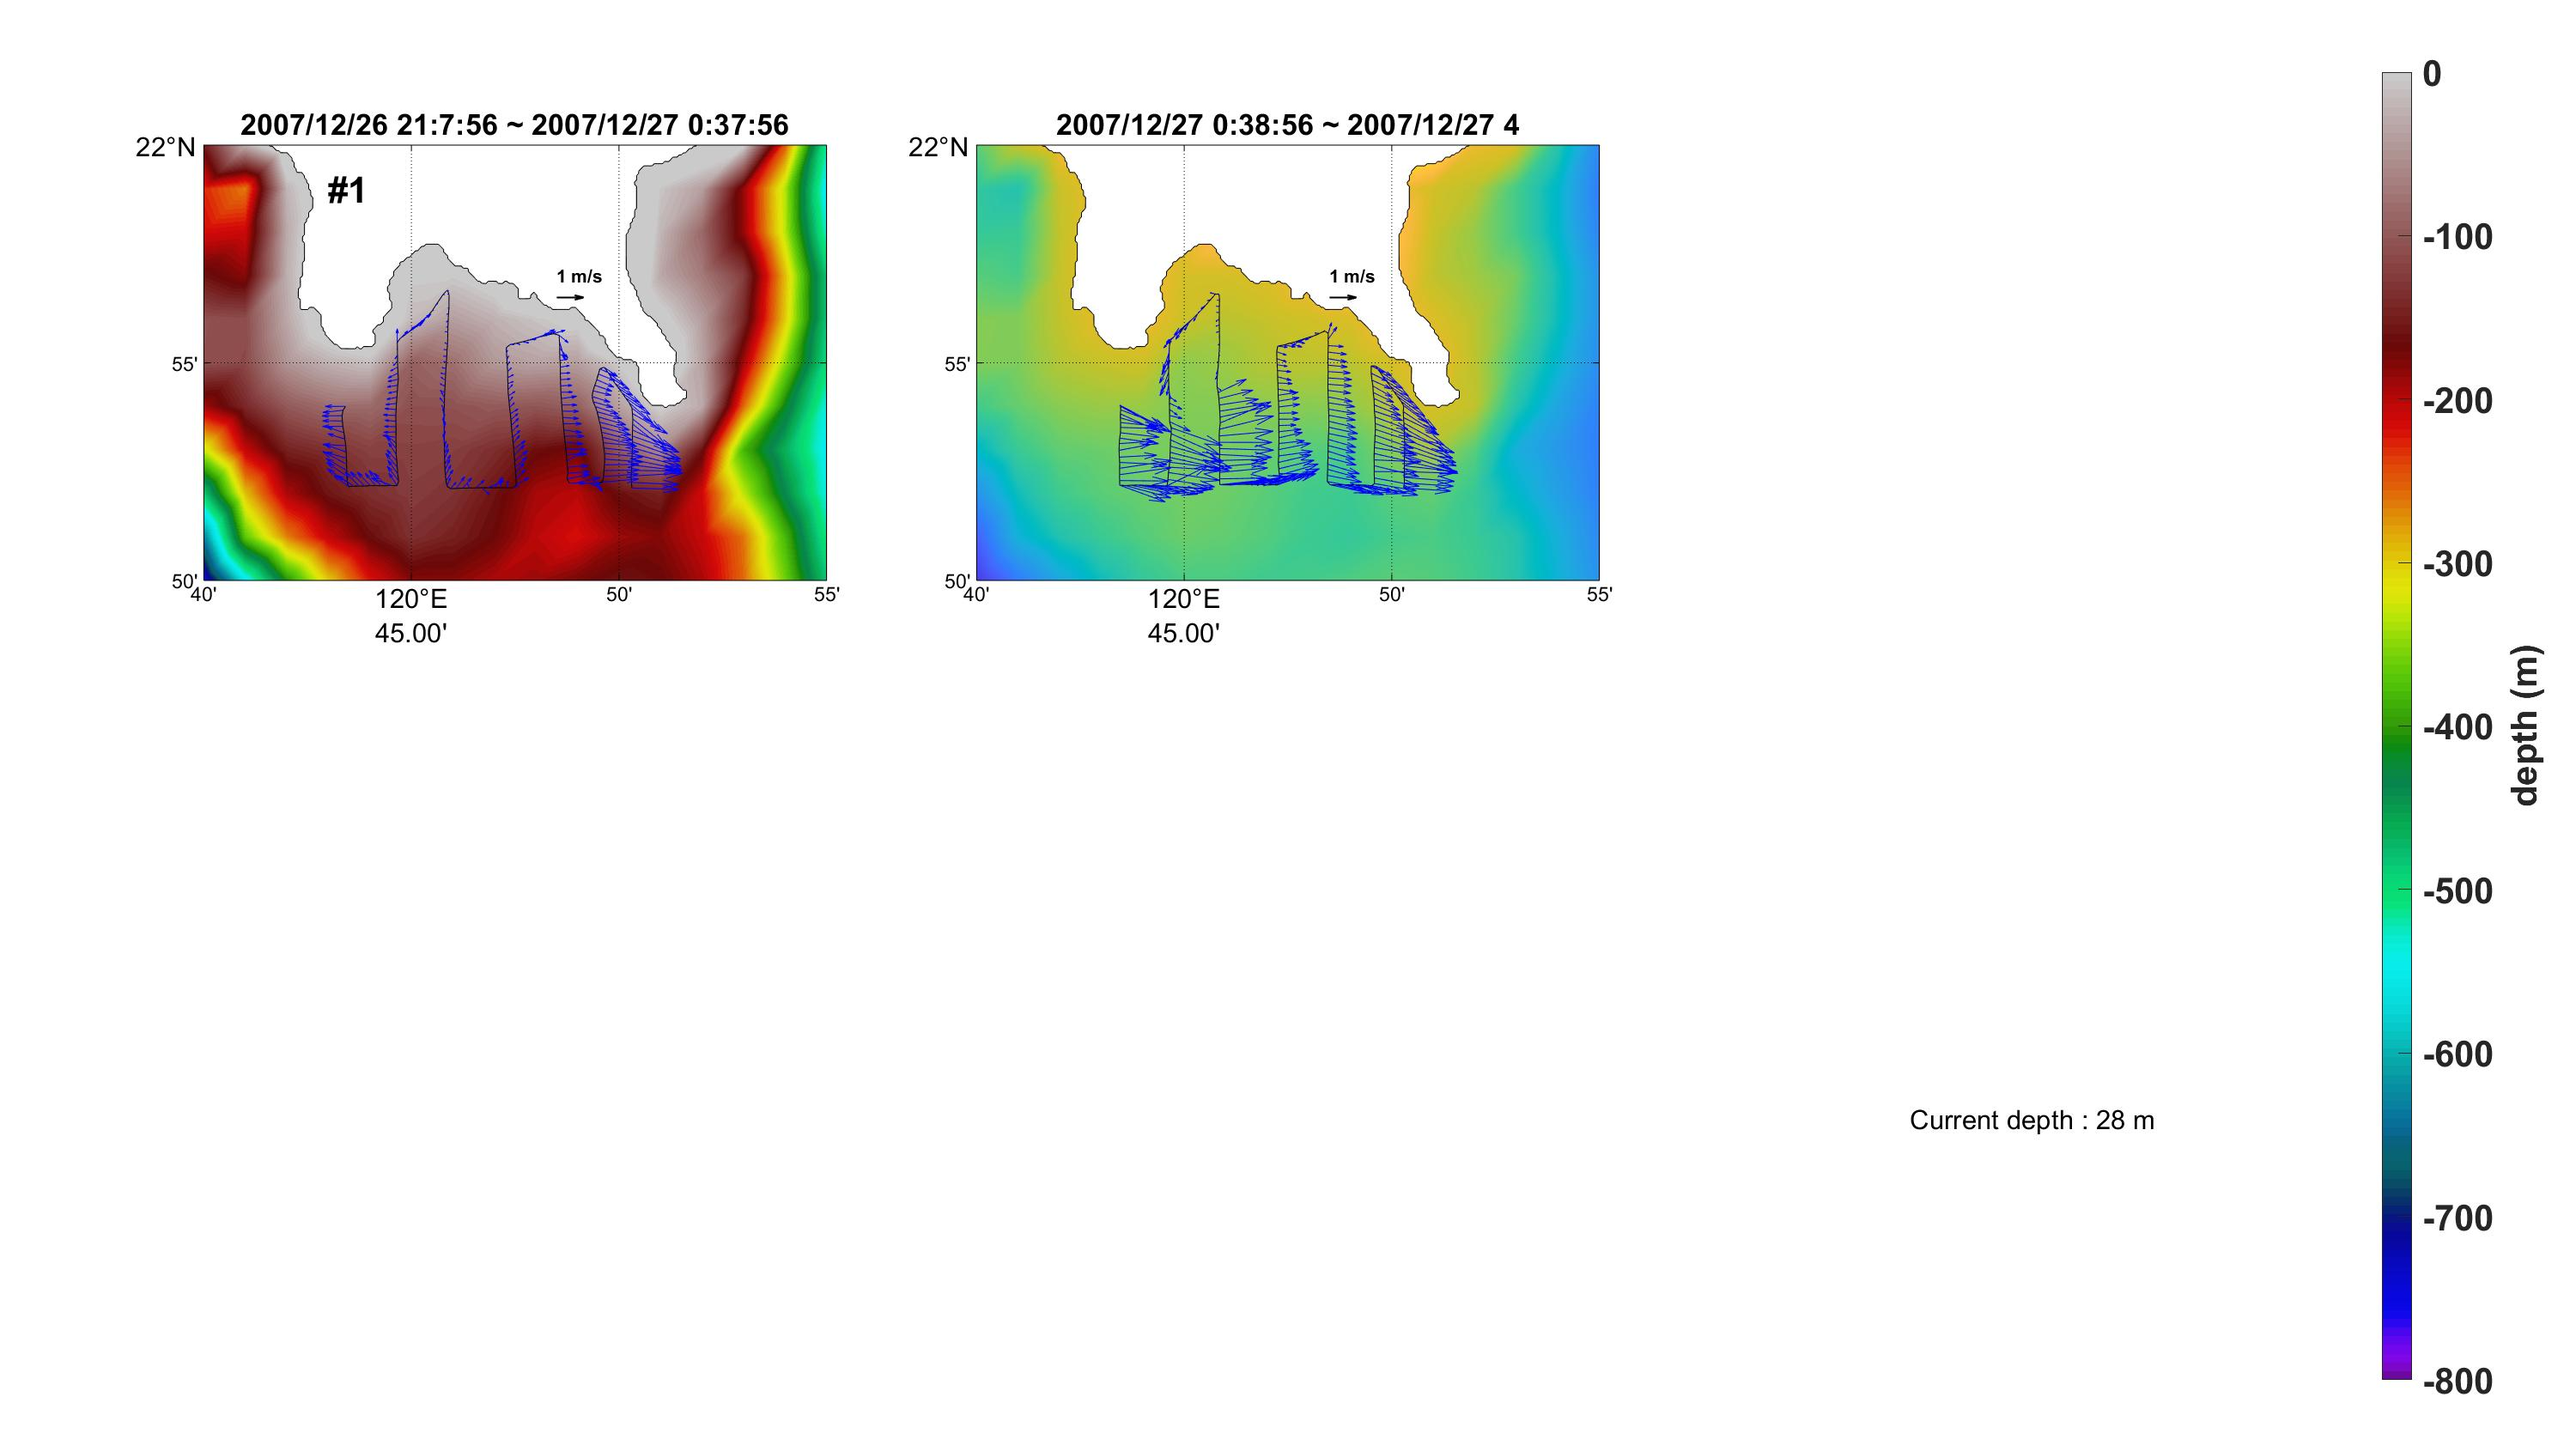
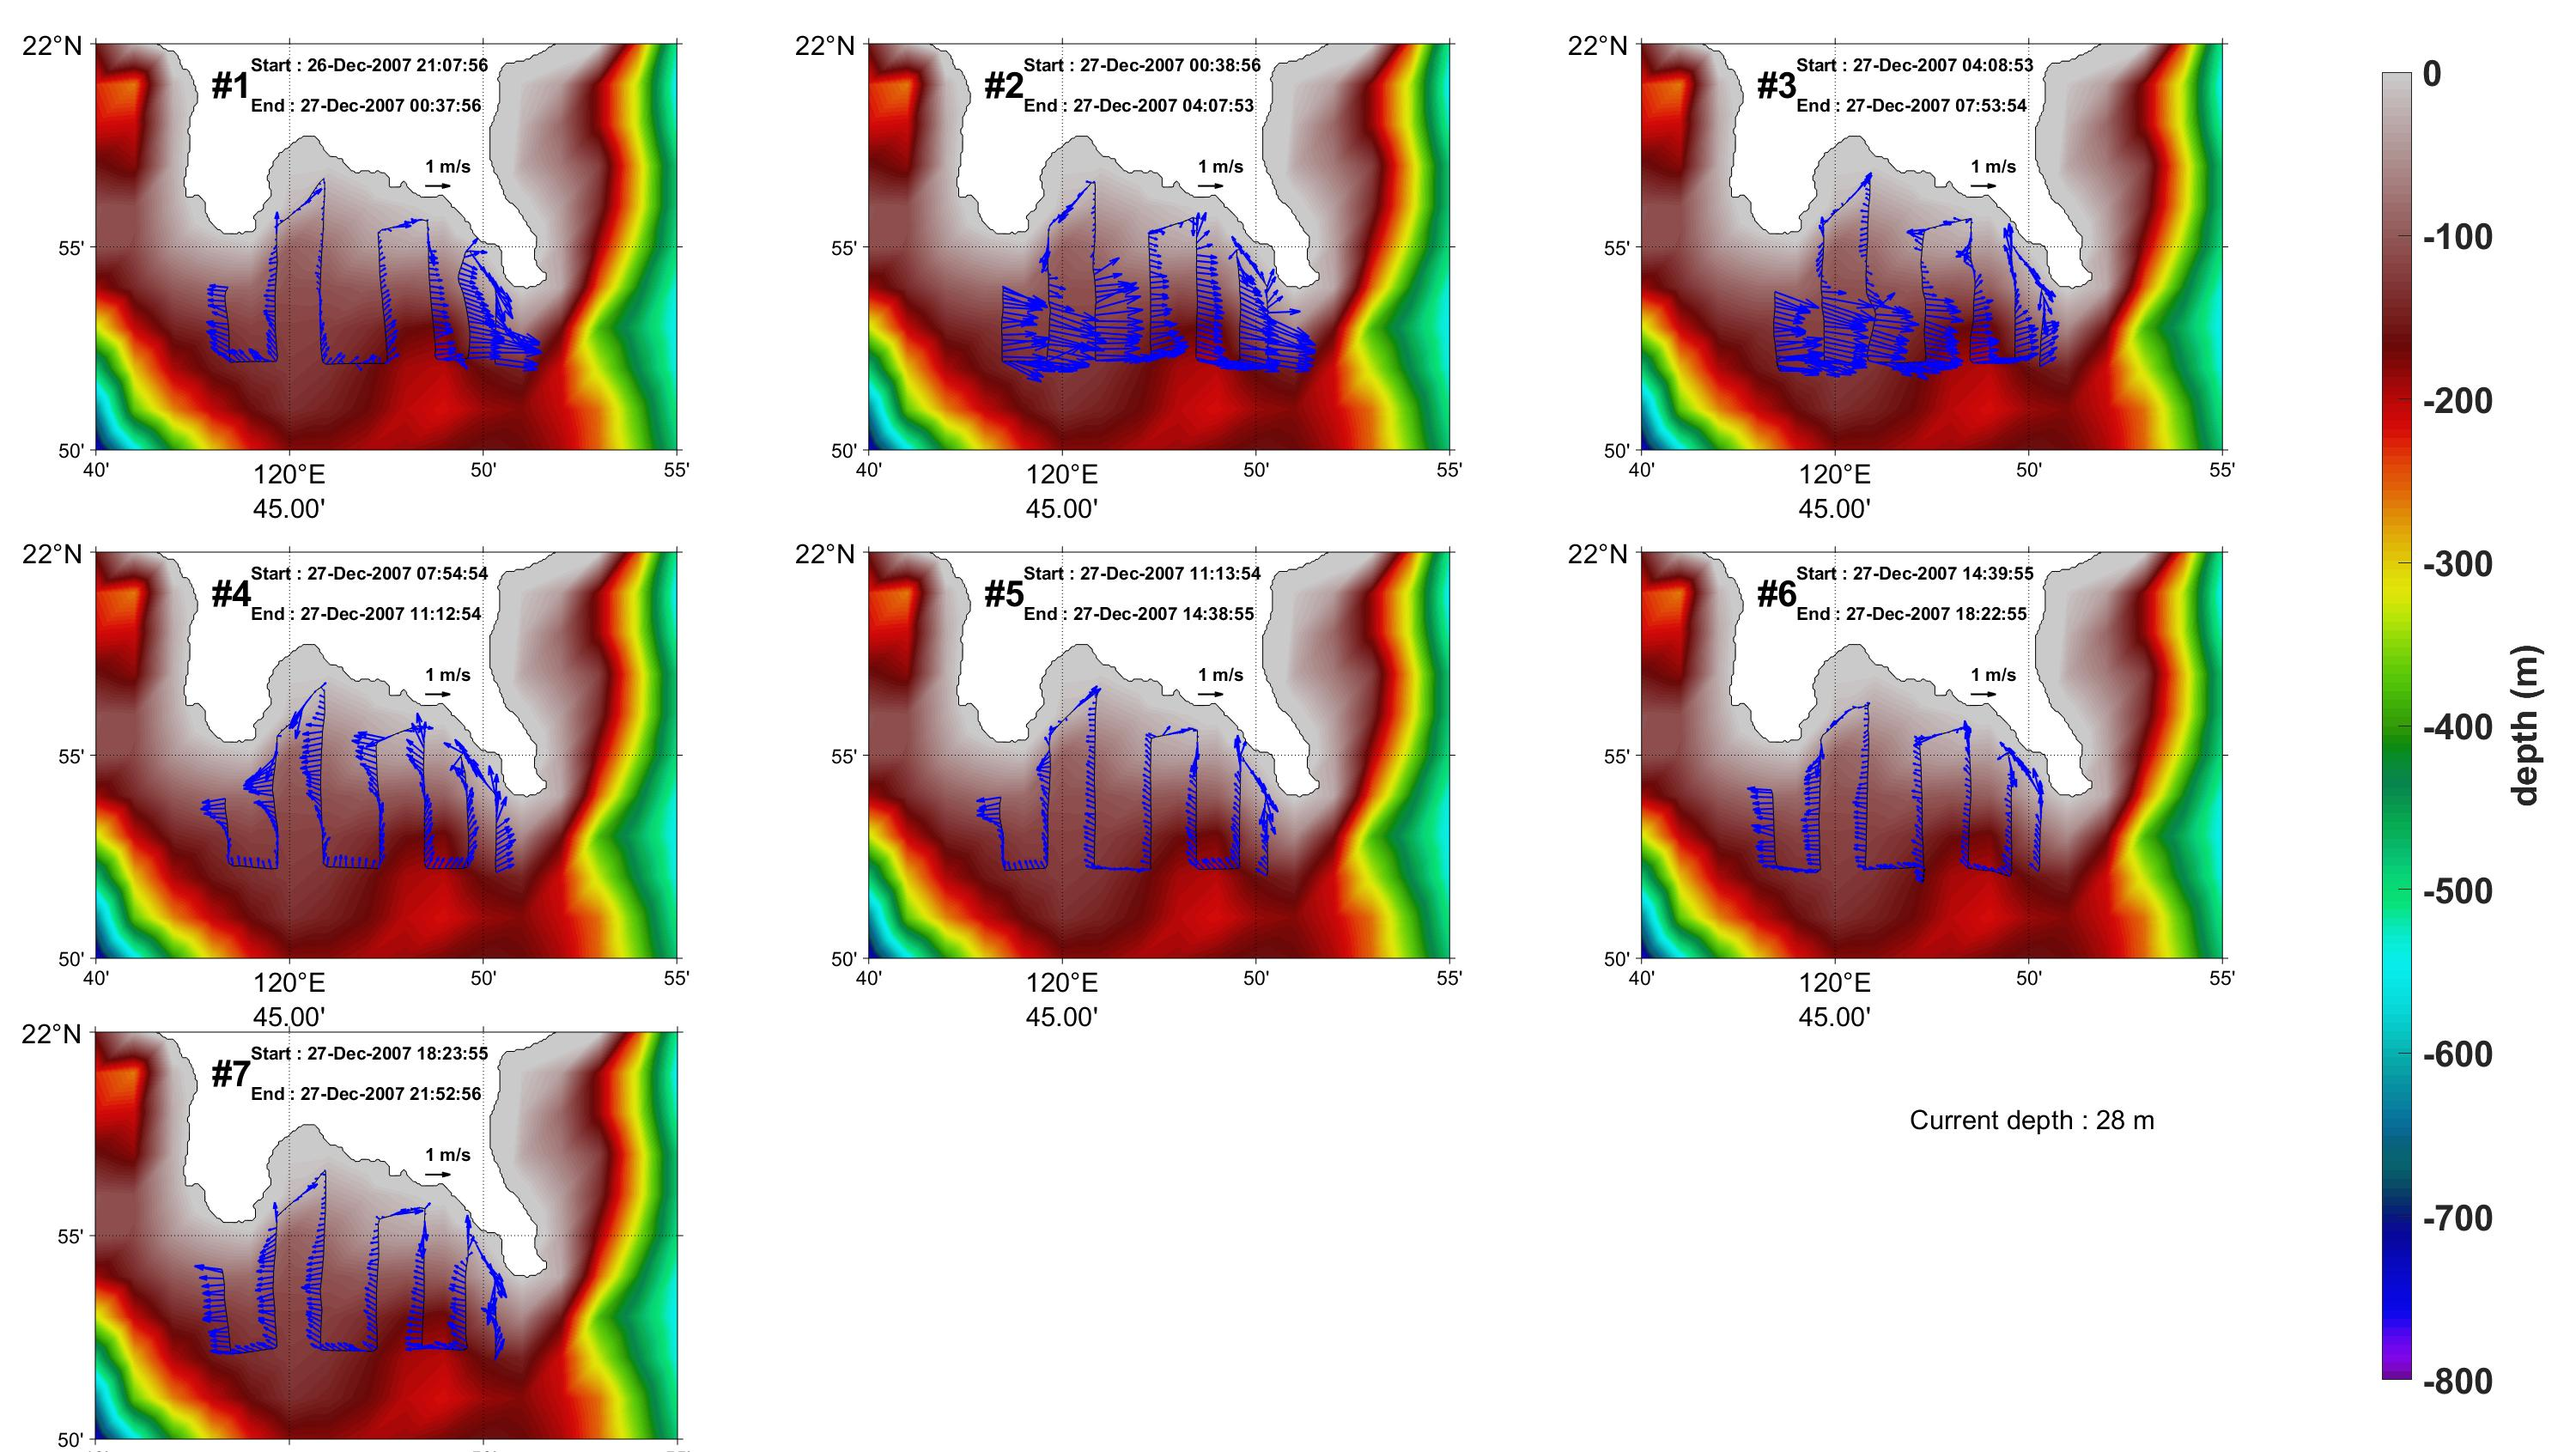
add function

diff --git a/ship_track_current.m b/ship_track_current.m
@@ -5,31 +5,32 @@ load('./C1267/ADCP_Nan_Bay.mat')
 LAT_lim = [21+50/60:5/60:22];
 LON_lim = [120+40/60:5/60:120+55/60];
 %%
-layer = 2;
-current_depth = 12 + 8*layer; % meter;
+layer = 3;
+current_depth = 12 + 8*(layer-1); % meter;
 u = SerEmmpersec(:,layer);
 v = SerNmmpersec(:,layer);
 %%
-filter_ind_1 = find(u<-30000 | (SerHour<=23 & SerDay==25) | ...
+filter_ind_head = find(u<-30000 | (SerHour<=23 & SerDay==25) | ...
     (SerHour<=20 & SerDay==26) | ...
     (SerMin<= 6 & SerHour<=21 & SerDay==26));
-filter_ind_2 = find(v<-30000 | (SerMin>=53 & SerHour>=21 & SerDay==27) | ...
+filter_ind_tail = find(v<-30000 | (SerMin>=53 & SerHour>=21 & SerDay==27) | ...
     (SerHour>=22 & SerDay==27));
-u([filter_ind_1;filter_ind_2])=[];
-v([filter_ind_1;filter_ind_2])=[];
-AnLLatDeg([filter_ind_1;filter_ind_2]) = [];
-AnLLonDeg([filter_ind_1;filter_ind_2]) = [];
+u([filter_ind_head;filter_ind_tail])=[];
+v([filter_ind_head;filter_ind_tail])=[];
+AnLLatDeg([filter_ind_head;filter_ind_tail]) = [];
+AnLLonDeg([filter_ind_head;filter_ind_tail]) = [];
 %%
-SerYear([filter_ind_1;filter_ind_2]) = [];
-SerMon([filter_ind_1;filter_ind_2]) = [];
-SerDay([filter_ind_1;filter_ind_2]) = [];
-SerHour([filter_ind_1;filter_ind_2]) = [];
-SerMin([filter_ind_1;filter_ind_2]) = [];
-SerSec([filter_ind_1;filter_ind_2]) = [];
+SerYear([filter_ind_head;filter_ind_tail]) = [];
+SerMon([filter_ind_head;filter_ind_tail]) = [];
+SerDay([filter_ind_head;filter_ind_tail]) = [];
+SerHour([filter_ind_head;filter_ind_tail]) = [];
+SerMin([filter_ind_head;filter_ind_tail]) = [];
+SerSec([filter_ind_head;filter_ind_tail]) = [];
+time_series = datetime(SerYear+2000,SerMon,SerDay,SerHour,SerMin,SerSec);
 %%
 fig = figure;
 fig.PaperUnits = 'centimeters';
-fig.PaperSize = [29.7 21]; % A4 papersize (horizontal,21-by-29.7 cm,[width height])
+fig.PaperSize = [21 29.7]; % A4 papersize (horizontal,21-by-29.7 cm,[width height])
 fig.PaperType = '<custom>';
 fig.WindowState = 'maximized';
 fig
@@ -66,18 +67,13 @@ text(0.8,0.2,['Current depth : ' num2str(current_depth) ' m'],'FontSize',15);
 % ax.FontSize = 15;
 %%
 ax1 = axes;
-ax1.Position = [0.05 0.6 0.3 0.3];
+ax1.Position = [0.01 0.69 0.28 0.28];
 trajectory_ind_1 = find((SerMin>= 6 & SerHour<=21 & SerDay==26) | ...
     (SerMin>= 0 & SerHour==22 & SerDay==26) | ...
     (SerMin>= 0 & SerHour==23 & SerDay==26) | ...
     (SerMin<= 37 & SerHour==0 & SerDay==27));
-ship_track_current_function(AnLLonDeg,AnLLatDeg,u,v,trajectory_ind_1,LON_lim,LAT_lim)
-title(['2007/12/' num2str(SerDay(trajectory_ind_1(1))) ' ' ...
-        num2str(SerHour(trajectory_ind_1(1))) ':' num2str(SerMin(trajectory_ind_1(1))) ...
-        ':' num2str(SerSec(trajectory_ind_1(1))) ' ~ ' ...
-        '2007/12/' num2str(SerDay(trajectory_ind_1(end))) ' ' ...
-        num2str(SerHour(trajectory_ind_1(end))) ':' num2str(SerMin(trajectory_ind_1(end))) ...
-        ':' num2str(SerSec(trajectory_ind_1(end)))],'FontSize',20) ;
+ship_track_current_function(AnLLonDeg,AnLLatDeg,u,v,trajectory_ind_1,...
+    LON_lim,LAT_lim,time_series)
 ax1.FontSize = 15;
 % c1 = colorbar;
 [X1,cmap1] = imread('sst.png');
@@ -96,35 +92,81 @@ m_text(120+43/60,21+59/60,'#1','Color','w','FontSize',20,'FontWeight','bold');
 % fig
 %%
 ax2 = axes;
-ax2.Position= [0.35 0.6 0.3 0.3];
+ax2.Position= [0.31 0.69 0.28 0.28];
 trajectory_ind_2 = find((SerMin> 37 & SerHour==0 & SerDay==27) | ...
     (SerHour==1 & SerDay==27) | (SerHour==2 & SerDay==27) | ...
     (SerHour==3 & SerDay==27) | (SerMin<=7 & SerHour==4 & SerDay==27));
-ship_track_current_function(AnLLonDeg,AnLLatDeg,u,v,trajectory_ind_2,LON_lim,LAT_lim)
-title(['2007/12/' num2str(SerDay(trajectory_ind_2(1))) ' ' ...
-        num2str(SerHour(trajectory_ind_2(1))) ':' num2str(SerMin(trajectory_ind_2(1))) ...
-        ':' num2str(SerSec(trajectory_ind_2(1))) ' ~ ' ...
-        '2007/12/' num2str(SerDay(trajectory_ind_2(end))) ' ' ...
-        num2str(SerHour(trajectory_ind_2(end)))],'FontSize',20) ;
+ship_track_current_function(AnLLonDeg,AnLLatDeg,u,v,trajectory_ind_2,...
+    LON_lim,LAT_lim,time_series)
 ax2.FontSize = 15;
-% c1 = colorbar;
-[X1,cmap1] = imread('sst.png');
-RGB1 = ind2rgb(X1,cmap1);
-colormap(ax1,reshape(RGB1(10,:,:),size(RGB1,2),3));
-% ---imread colormap---%
-c1.Label.String = 'depth (m)';
+colormap(ax2,reshape(RGB1(10,:,:),size(RGB1,2),3));
 caxis([-800 0])
-m_text(120+43/60,21+59/60,'#1','Color','w','FontSize',20,'FontWeight','bold');
+m_text(120+43/60,21+59/60,'#2','Color','w','FontSize',20,'FontWeight','bold');
+%%
+ax3 = axes;
+ax3.Position= [0.61 0.69 0.28 0.28];
+trajectory_ind_3 = find((SerMin > 7 & SerHour==4 & SerDay==27) | ...
+    (SerHour==5 & SerDay==27) | (SerHour==6 & SerDay==27) | ...
+    (SerMin<=53 & SerHour==7 & SerDay==27));
+ship_track_current_function(AnLLonDeg,AnLLatDeg,u,v,trajectory_ind_3,...
+    LON_lim,LAT_lim,time_series)
+ax3.FontSize = 15;
+colormap(ax3,reshape(RGB1(10,:,:),size(RGB1,2),3));
+caxis([-800 0])
+m_text(120+43/60,21+59/60,'#3','Color','w','FontSize',20,'FontWeight','bold');
 
 
+%%
+ax4 = axes;
+ax4.Position= [0.01 0.34 0.28 0.28];
+trajectory_ind_4 = find((SerMin > 53 & SerHour==7 & SerDay==27) | ...
+    (SerHour==8 & SerDay==27) | (SerHour==9 & SerDay==27) | ...
+    (SerHour==10 & SerDay==27) | (SerMin<=12 & SerHour==11 & SerDay==27));
+ship_track_current_function(AnLLonDeg,AnLLatDeg,u,v,trajectory_ind_4,...
+    LON_lim,LAT_lim,time_series)
+ax4.FontSize = 15;
+colormap(ax4,reshape(RGB1(10,:,:),size(RGB1,2),3));
+caxis([-800 0])
+m_text(120+43/60,21+59/60,'#4','Color','w','FontSize',20,'FontWeight','bold');
 
 
+%%
+ax5 = axes;
+ax5.Position= [0.31 0.34 0.28 0.28];
+trajectory_ind_5 = find((SerMin > 12 & SerHour==11 & SerDay==27) | ...
+    (SerHour==12 & SerDay==27) | (SerHour==13 & SerDay==27) | ...
+    (SerMin<=38 & SerHour==14 & SerDay==27));
+ship_track_current_function(AnLLonDeg,AnLLatDeg,u,v,trajectory_ind_5,...
+    LON_lim,LAT_lim,time_series)
+ax5.FontSize = 15;
+colormap(ax5,reshape(RGB1(10,:,:),size(RGB1,2),3));
+caxis([-800 0])
+m_text(120+43/60,21+59/60,'#5','Color','w','FontSize',20,'FontWeight','bold');
+%%
+ax6 = axes;
+ax6.Position= [0.61 0.34 0.28 0.28];
+trajectory_ind_6 = find((SerMin > 38 & SerHour==14 & SerDay==27) | ...
+    (SerHour==15 & SerDay==27) | (SerHour==16 & SerDay==27) | ...
+    (SerHour==17 & SerDay==27) | (SerMin<=22 & SerHour==18 & SerDay==27));
+ship_track_current_function(AnLLonDeg,AnLLatDeg,u,v,trajectory_ind_6,...
+    LON_lim,LAT_lim,time_series)
+ax6.FontSize = 15;
+colormap(ax6,reshape(RGB1(10,:,:),size(RGB1,2),3));
+caxis([-800 0])
+m_text(120+43/60,21+59/60,'#6','Color','w','FontSize',20,'FontWeight','bold');
 
-
-
-
-
-
+%%
+ax7 = axes;
+ax7.Position= [0.01 0.009 0.28 0.28];
+trajectory_ind_7 = find((SerMin > 22 & SerHour==18 & SerDay==27) | ...
+    (SerHour==19 & SerDay==27) | (SerHour==20 & SerDay==27) | ...
+    (SerMin<=54 & SerHour==21 & SerDay==27) | (SerHour==22 & SerDay==27));
+ship_track_current_function(AnLLonDeg,AnLLatDeg,u,v,trajectory_ind_7,...
+    LON_lim,LAT_lim,time_series)
+ax7.FontSize = 15;
+colormap(ax7,reshape(RGB1(10,:,:),size(RGB1,2),3));
+caxis([-800 0])
+m_text(120+43/60,21+59/60,'#7','Color','w','FontSize',20,'FontWeight','bold');
 
 %%
 mkdir('./results');

diff --git a/ship_track_current_function.m b/ship_track_current_function.m
@@ -1,4 +1,4 @@
-function ship_track_current_function(AnLLonDeg,AnLLatDeg,u,v,trajectory_ind,LON_lim,LAT_lim)
+function ship_track_current_function(AnLLonDeg,AnLLatDeg,u,v,trajectory_ind,LON_lim,LAT_lim,time)
     m_proj('miller','lon',[LON_lim(1) LON_lim(end)],'lat',[LAT_lim(1) LAT_lim(end)]);
     [ELEV,LONG,LAT] = m_etopo2([118 123 20 30]); % [ELEV,LONG,LAT]=m_etopo2([LONG_MIN LONG_MAX LAT_MIN LAT_MAX])
     m_pcolor(LONG,LAT,ELEV);shading interp
@@ -10,13 +10,18 @@ function ship_track_current_function(AnLLonDeg,AnLLatDeg,u,v,trajectory_ind,LON_
         u(trajectory_ind),v(trajectory_ind),0);
     scale = 0.00001;
     mqr.Color = 'b';
+    mqr.LineWidth = 1;
+    mqr.LineStyle = '-';
+    mqr.MarkerFaceColor = 'b';
+    mqr.MaxHeadSize = 1;
     hU1 = get(mqr,'UData');
     hV1 = get(mqr,'VData');
     set(mqr,'UData',scale*hU1,'VData',scale*hV1)
 
     hold on;
     m_gshhs_f('patch',[0 0 0],'linewidth',0.5);
-    m_grid('tickdir','in','xtick',LON_lim,'ytick',LAT_lim,'fontsize',15)
+    m_grid('tickdir','out','xtick',LON_lim,'ytick',LAT_lim,'fontsize',15,...
+        'xticklabels',LON_lim,'yticklabels',LAT_lim);
     hold on;
     mqr_ref = m_quiver(120+48.5/60,21+56.5/60,1000,0,0);
     mqr_ref.Color = 'w';
@@ -29,5 +34,9 @@ function ship_track_current_function(AnLLonDeg,AnLLatDeg,u,v,trajectory_ind,LON_
     set(mqr_ref,'UData',scale*hU_ref,'VData',scale*hV_ref)
     hold on;
     m_text(120+48.5/60,21+57/60,'1 m/s','Color','w','FontWeight','bold');
-
+    hold on;
+    m_text(120+44/60,21+59.5/60,['Start : ' char(time(trajectory_ind(1)))],...
+        'Color','w','FontWeight','bold');
+    m_text(120+44/60,21+58.5/60,['End : ' char(time(trajectory_ind(end)))],...
+        'Color','w','FontWeight','bold');
 end
